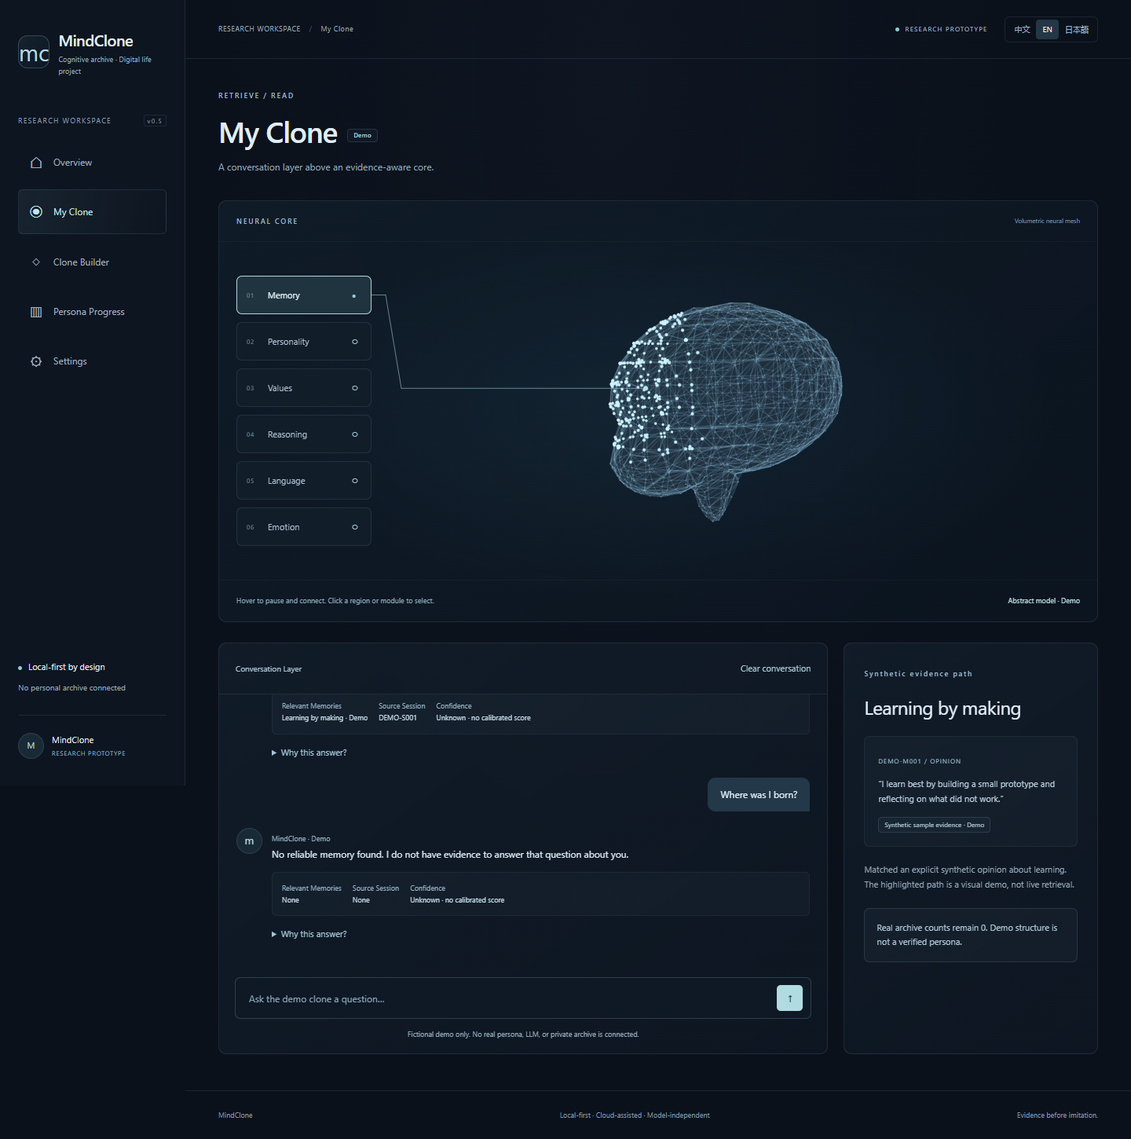
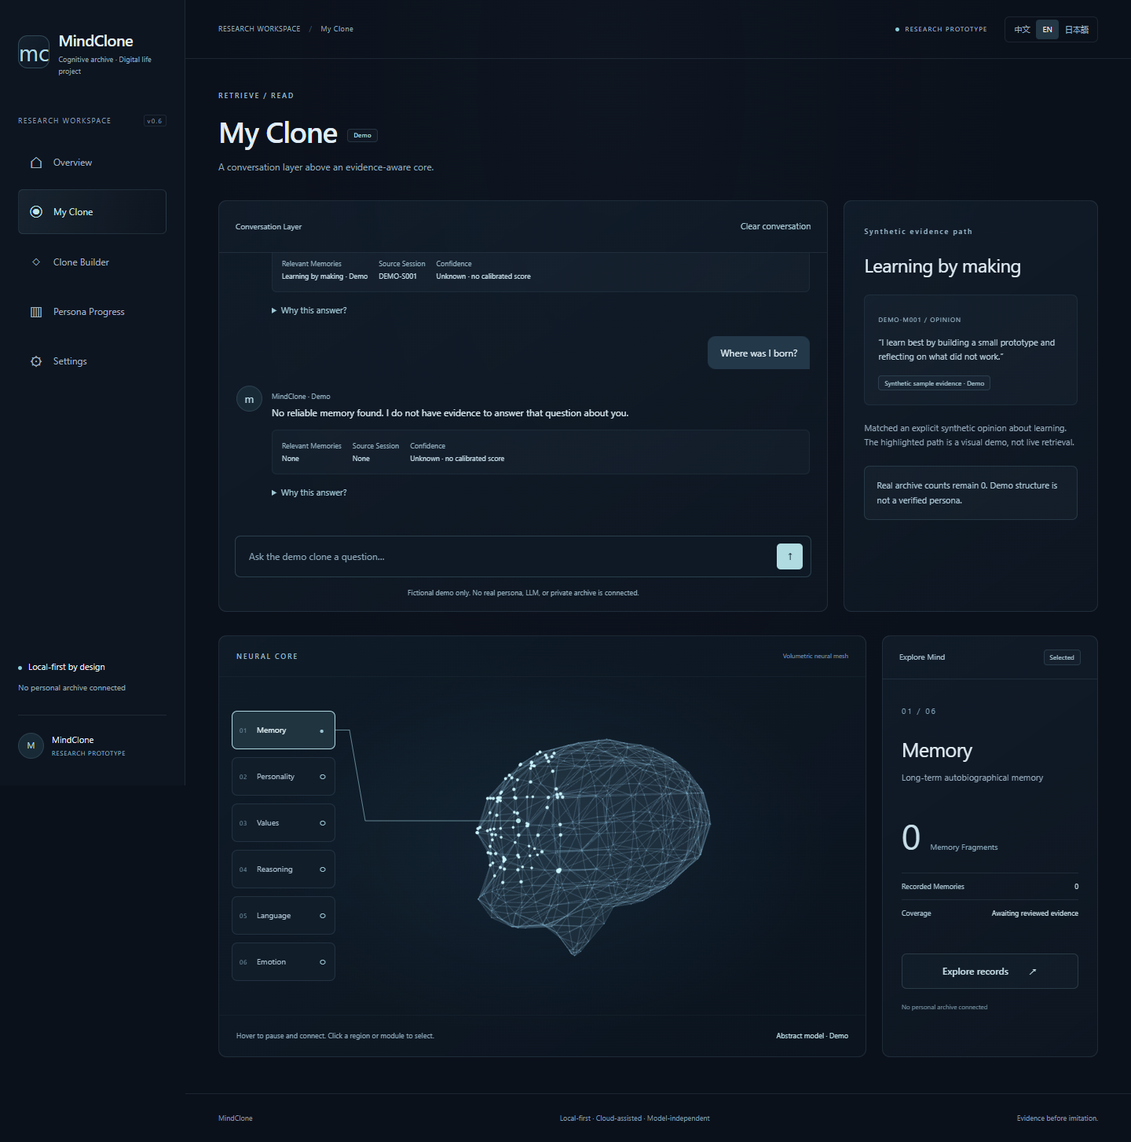
Restore mind exploration panel and prioritize chat capture; simplify brain mesh

diff --git a/src/app.js b/src/app.js
@@ -38,7 +38,7 @@ function shell() {
   document.title = `MindClone · ${text('nav.'+route())}`;
   document.querySelector('#sidebar').innerHTML = `
     <a class="brand" href="#home"><span class="logo">m<span>c</span></span><strong>MindClone<small>${t('brand.subtitle')}</small></strong></a>
-    <div class="workspace-label">${t('shell.workspace')}<span>v0.5</span></div>
+    <div class="workspace-label">${t('shell.workspace')}<span>v0.6</span></div>
     <nav aria-label="${t('shell.workspace')}">${['home','clone','builder','dashboard','settings'].map((page,i)=>`<a href="#${page}" data-page="${page}" class="${route()===page?'active':''}" ${route()===page?'aria-current="page"':''}><span class="nav-symbol" aria-hidden="true">${['⌂','◉','◇','▥','⚙'][i]}</span><span>${t('nav.'+page)}</span></a>`).join('')}</nav>
     <div class="sidebar-bottom"><div class="local-dot">${t('shell.local')}</div><p>${t('shell.disconnected')}</p><div class="profile"><span class="avatar">M</span><div>MindClone<small>${t('shell.private')}</small></div></div></div>`;
   document.querySelector('#header').innerHTML = `<span class="breadcrumb">${t('shell.workspace')} <span>/</span> ${t('nav.'+route())}</span><div class="header-tools"><span class="private-status"><i></i>${t('shell.private')}</span><div class="language-switch" role="group" aria-label="${t('settings.language')}">${Object.entries(languageNames).map(([locale,name])=>`<button type="button" data-language="${locale}" lang="${locale}" aria-pressed="${locale===language}" class="${locale===language?'active':''}">${name}</button>`).join('')}</div></div>`;
@@ -61,14 +61,21 @@ function saveDrafts() {
 function pageTitle(page, eyebrow, description) {
   return `<section class="page-title"><span class="eyebrow">${t(eyebrow)}</span><h1>${t('nav.'+page)}<span class="pill">${t('shell.demo')}</span></h1><p>${t(description)}</p></section>`;
 }
+function exploreContent() {
+  const current = region || 'memory';
+  return `<div class="panel-top"><span>${t('brain.explore')}</span><span class="pill">${t(region?'brain.selected':'brain.preview')}</span></div><div class="region-body"><span class="region-number">0${regions.indexOf(current)+1} / 06</span><h2>${t('region.'+current)}</h2><p>${t('region.'+current+'Note')}</p><div class="region-total"><strong>0</strong><span>${t('metrics.fragments')}</span></div><dl><div><dt>${t('metrics.memories')}</dt><dd>0</dd></div><div><dt>${t('metrics.coverage')}</dt><dd>${t('brain.coverage')}</dd></div></dl><button type="button" class="button secondary" id="explore-records" aria-expanded="false" aria-controls="domain-records">${t('brain.inspect')} <span aria-hidden="true">↗</span></button><div class="empty-records" id="domain-records" hidden><h3>${t('brain.empty')}</h3><p>${t('brain.emptyNote')}</p></div><small>${t('shell.disconnected')}</small></div>`;
+}
+function mindObservatory(options={}) {
+  return `<div class="mind-observatory">${brainMarkup(t,{selected:region,...options})}<aside class="panel explore-panel" aria-label="${t('brain.explore')}">${exploreContent()}</aside></div>`;
+}
 function home() {
-  return `<section class="hero"><div class="eyebrow"><i></i>${t('home.eyebrow')}</div><h1>MindClone</h1><h2>${t('home.headline')}</h2><p class="hero-copy">${t('home.description')}</p><div class="home-observatory">${brainMarkup(t,{selected:region})}</div><div class="hero-actions">${link('home.talk','clone')}${link('home.build','builder',true)}</div><p class="fine centered">${t('brain.instructions')}</p></section>
+  return `<section class="hero"><div class="eyebrow"><i></i>${t('home.eyebrow')}</div><h1>MindClone</h1><h2>${t('home.headline')}</h2><p class="hero-copy">${t('home.description')}</p><div class="home-observatory">${mindObservatory()}</div><div class="hero-actions">${link('home.talk','clone')}${link('home.build','builder',true)}</div><p class="fine centered">${t('brain.instructions')}</p></section>
     <section class="workflow"><span class="eyebrow">${t('home.process')}</span><h2>${t('home.workflowTitle')}</h2><div class="steps">${['talk','capture','structure','remember','clone'].map((s,i)=>`<div><small>0${i+1}</small><h3>${t('workflow.'+s)}</h3><p>${t('workflow.'+s+'Note')}</p></div>`).join('')}</div></section>
-    <section class="feature-grid"><a class="feature" href="#clone"><span class="tile-icon">◉</span><span class="eyebrow">01 / ${t('nav.clone')}</span><h2>${t('home.cloneTitle')}</h2><p>${t('home.cloneNote')}</p><span class="text-link">${t('home.talk')} ↗</span></a><a class="feature" href="#builder"><span class="tile-icon">◇</span><span class="eyebrow">02 / ${t('nav.builder')}</span><h2>${t('home.builderTitle')}</h2><p>${t('home.builderNote')}</p><span class="text-link">${t('home.build')} ↗</span></a><div class="stage panel"><span class="eyebrow">${t('project.stage')}</span><span class="stage-badge">v0.5</span><h2>${t('project.mvp')}</h2><p>${t('privacy.demo')}</p><small>${t('project.next')}</small></div></section>`;
+    <section class="feature-grid"><a class="feature" href="#clone"><span class="tile-icon">◉</span><span class="eyebrow">01 / ${t('nav.clone')}</span><h2>${t('home.cloneTitle')}</h2><p>${t('home.cloneNote')}</p><span class="text-link">${t('home.talk')} ↗</span></a><a class="feature" href="#builder"><span class="tile-icon">◇</span><span class="eyebrow">02 / ${t('nav.builder')}</span><h2>${t('home.builderTitle')}</h2><p>${t('home.builderNote')}</p><span class="text-link">${t('home.build')} ↗</span></a><div class="stage panel"><span class="eyebrow">${t('project.stage')}</span><span class="stage-badge">v0.6</span><h2>${t('project.mvp')}</h2><p>${t('privacy.demo')}</p><small>${t('project.next')}</small></div></section>`;
 }
 function conversation() {
   const log = messages.length ? messages.map(m=>m.role==='user'?`<div class="user-message">${escape(m.text)}</div>`:`<article class="clone-message"><span class="avatar">m</span><div><small>MindClone · ${t('shell.demo')}</small><p>${t(m.reply.answer_key)}</p><div class="evidence"><div><small>${t('clone.memories')}</small><span>${m.reply.memories.length?t('clone.memoryTitle')+' · '+t('shell.demo'):t('clone.none')}</span></div><div><small>${t('clone.source')}</small><span>${m.reply.source||t('clone.none')}</span></div><div><small>${t('clone.confidence')}</small><span>${t('clone.unknown')}</span></div></div><details><summary>${t('clone.why')}</summary><p>${t(m.reply.why_key)}</p></details></div></article>`).join('') : `<div class="chat-empty"><span class="chat-core" aria-hidden="true">◉</span><h2>${t('clone.emptyTitle')}</h2><p>${t('clone.emptyNote')}</p><button class="suggestion" id="sample-chat">${t('clone.sample')} ↗</button></div>`;
-  return `${pageTitle('clone','clone.eyebrow','clone.description')}<div class="clone-observatory">${brainMarkup(t,{selected:region,pulse})}</div><div class="conversation-layer"><section class="panel chat"><div class="panel-top"><span>${t('clone.conversation')}</span><button class="quiet" id="clear-chat">${t('clone.clear')}</button></div><div class="chat-log" aria-live="polite">${log}</div><form id="chat-form"><label class="sr-only" for="query">${t('clone.messageLabel')}</label><input id="query" maxlength="2000" required placeholder="${t('clone.placeholder')}" value="${escape(draftQuery)}" autocomplete="off"><button class="send" aria-label="${t('clone.send')}" ${busy?'disabled':''}>↑</button></form><p class="fine chat-note">${t('privacy.demo')}</p></section><aside class="panel context"><span class="eyebrow">${t('brain.feedback')}</span><h2>${t('clone.memoryTitle')}</h2><div class="memory-card"><small>DEMO-M001 / OPINION</small><p>“${t('clone.memoryQuote')}”</p><span class="pill">${t('fragment.synthetic')}</span></div><p>${t('clone.whyKnown')}</p><div class="notice">${t('privacy.counts')}</div></aside></div>`;
+  return `${pageTitle('clone','clone.eyebrow','clone.description')}<div class="conversation-layer"><section class="panel chat"><div class="panel-top"><span>${t('clone.conversation')}</span><button class="quiet" id="clear-chat">${t('clone.clear')}</button></div><div class="chat-log" aria-live="polite">${log}</div><form id="chat-form"><label class="sr-only" for="query">${t('clone.messageLabel')}</label><input id="query" maxlength="2000" required placeholder="${t('clone.placeholder')}" value="${escape(draftQuery)}" autocomplete="off"><button class="send" aria-label="${t('clone.send')}" ${busy?'disabled':''}>↑</button></form><p class="fine chat-note">${t('privacy.demo')}</p></section><aside class="panel context"><span class="eyebrow">${t('brain.feedback')}</span><h2>${t('clone.memoryTitle')}</h2><div class="memory-card"><small>DEMO-M001 / OPINION</small><p>“${t('clone.memoryQuote')}”</p><span class="pill">${t('fragment.synthetic')}</span></div><p>${t('clone.whyKnown')}</p><div class="notice">${t('privacy.counts')}</div></aside></div><div class="clone-observatory">${mindObservatory()}</div>`;
 }
 function fragmentCard() {
   if (!fragment) return '';
@@ -81,7 +88,7 @@ function builder() {
   const count = counts(fragment);
   const summary = [['builder.answered',answers.length],['builder.memories',count.memory],['builder.values',count.values],['builder.reasoning',count.reasoning],['builder.personality',count.personality]];
   const body = closed ? `<span class="tile-icon">✓</span><h2>${t('builder.summaryTitle')}</h2><p>${t('builder.summaryNote')}</p><div class="summary-grid">${summary.map(([key,n])=>`<div><strong>${n}</strong><span>${t(key)}</span></div>`).join('')}</div>${fragment?'':`<button class="button" id="generate">${t('builder.generate')} ↗</button>`}${fragmentCard()}<button class="quiet reset" id="reset">${t('builder.reset')}</button>` : active ? `<span class="eyebrow">${t('builder.question')} ${String(answers.length+1).padStart(2,'0')} · ${t('builder.scripted')}</span><h2>${question||t('builder.completeTitle')}</h2>${question?`<form id="answer-form"><label for="answer">${t('builder.answer')}</label><textarea id="answer" maxlength="6000" rows="5" required placeholder="${t('builder.placeholder')}">${escape(draftAnswer)}</textarea><div class="actions"><button class="button">${t('builder.continue')} →</button><button class="quiet" type="button" id="sample-answer">${t('builder.sample')}</button></div></form>`:`<p>${t('builder.closeNote')}</p>`}<button class="quiet reset" id="end" ${answers.length?'':'disabled'}>${t('builder.end')}</button>` : `<span class="tile-icon">◇</span><h2>${t('builder.startTitle')}</h2><p>${t('builder.startNote')}</p><div class="notice">${t('privacy.input')}</div><button class="button" id="start">${t('builder.start')} ↗</button>`;
-  return `${pageTitle('builder','builder.eyebrow','builder.description')}${uploadArea()}<div class="builder-layout"><div class="builder-main">${brainMarkup(t,{selected:region,captures:answers.length})}<div class="capture-totals"><span>${t('builder.answered')} <strong>${answers.length}</strong></span><span>${t('metrics.sessions')} <strong>${workspaceSummary.sessions}</strong></span><span>${t('metrics.fragments')} <strong>${workspaceSummary.fragments}</strong></span></div>${preview.synthetic?`<div class="capture-evidence"><span>${t('fragment.synthetic')}</span>${Object.entries(preview.counts).map(([r,n])=>`<span>${t('region.'+r)} <b>+${n}</b></span>`).join('')}</div>`:''}<section class="panel interview"><div class="panel-top"><span>${t(closed?'builder.closed':active?'builder.active':'builder.ready')}</span><span>${t('builder.answered')} ${answers.length}</span></div><div class="interview-body">${body}</div></section></div><aside class="panel context"><span class="eyebrow">${t('builder.map')}</span><h2>${t('builder.mapTitle')}</h2><ol class="session-map">${['builder.start','builder.scripted','builder.answer','builder.continue','builder.end','builder.generate'].map(key=>`<li>${t(key)}</li>`).join('')}</ol><div class="notice">${t('privacy.counts')}</div><p class="fine">${t('builder.progressNote')}</p>${answers.length?`<details><summary>${t('builder.review')} (${answers.length})</summary>${answers.map(a=>`<h4>${escape(a.question)}</h4><p>${escape(a.answer)}</p>`).join('')}</details>`:''}</aside></div>`;
+  return `${pageTitle('builder','builder.eyebrow','builder.description')}<div class="builder-layout"><div class="builder-main"><section class="panel interview"><div class="panel-top"><span>${t(closed?'builder.closed':active?'builder.active':'builder.ready')}</span><span>${t('builder.answered')} ${answers.length}</span></div><div class="interview-body">${body}</div></section></div><aside class="panel context"><span class="eyebrow">${t('builder.map')}</span><h2>${t('builder.mapTitle')}</h2><ol class="session-map">${['builder.start','builder.scripted','builder.answer','builder.continue','builder.end','builder.generate'].map(key=>`<li>${t(key)}</li>`).join('')}</ol><div class="notice">${t('privacy.counts')}</div><p class="fine">${t('builder.progressNote')}</p>${answers.length?`<details><summary>${t('builder.review')} (${answers.length})</summary>${answers.map(a=>`<h4>${escape(a.question)}</h4><p>${escape(a.answer)}</p>`).join('')}</details>`:''}</aside></div><div class="capture-totals"><span>${t('builder.answered')} <strong>${answers.length}</strong></span><span>${t('metrics.sessions')} <strong>${workspaceSummary.sessions}</strong></span><span>${t('metrics.fragments')} <strong>${workspaceSummary.fragments}</strong></span></div>${preview.synthetic?`<div class="capture-evidence"><span>${t('fragment.synthetic')}</span>${Object.entries(preview.counts).map(([r,n])=>`<span>${t('region.'+r)} <b>+${n}</b></span>`).join('')}</div>`:''}${uploadArea()}<div class="builder-observatory">${mindObservatory({captures:answers.length})}</div>`;
 }
 function fragmentList() {
   return `<section class="panel fragment-list"><div class="panel-top"><span>${t('upload.list')}</span><span>${fragmentEntries.length}</span></div>${fragmentEntries.length?`<ul>${fragmentEntries.map(entry=>`<li><div><strong>${escape(entry.name)}</strong><small>${entry.source_id?escape(entry.source_id)+' · ':''}${new Intl.DateTimeFormat(language==='zh'?'zh-CN':language,{dateStyle:'medium',timeStyle:'short'}).format(new Date(entry.imported_at))}${entry.size?' · '+Math.ceil(entry.size/1024)+' KB':''}</small></div><span class="pill">${t(entry.kind==='imported'?'upload.imported':'upload.generated')} · ${t('upload.pending')}</span></li>`).join('')}</ul>`:`<p class="list-empty">${t('upload.listEmpty')}</p>`}</section>`;
@@ -96,9 +103,20 @@ function dashboard() {
 function settings() {
   return `${pageTitle('settings','shell.private','settings.description')}<section class="panel settings-panel"><div><h2>${t('settings.language')}</h2><p>${t('settings.description')}</p><div class="language-settings">${Object.entries(languageNames).map(([locale,name])=>`<button class="button ${locale===language?'':'secondary'}" data-settings-language="${locale}" aria-pressed="${locale===language}" lang="${locale}">${name}</button>`).join('')}</div></div><div><label class="motion-toggle"><input id="motion-toggle" type="checkbox" ${reduceMotion?'checked':''}><span>${t('settings.motion')}</span></label><p>${t('settings.motionNote')}</p></div><div><h2>${t('settings.auth')}</h2><p>${t('settings.authNote')}</p><div class="notice">${t('privacy.input')}</div></div></section>`;
 }
-function chooseRegion(next) { region = next; }
+function chooseRegion(next) { region = next; updateExplore(); }
+function updateExplore() {
+  const panel = app.querySelector('.explore-panel');
+  if (!panel) return;
+  panel.innerHTML = exploreContent();
+  panel.querySelector('#explore-records').onclick = event => {
+    const records = panel.querySelector('#domain-records');
+    records.hidden = !records.hidden;
+    event.currentTarget.setAttribute('aria-expanded', String(!records.hidden));
+  };
+}
 function bind() {
   disposeBrain = connectBrain(app,chooseRegion,reduceMotion);
+  updateExplore();
   app.querySelector('#fragment-files')?.addEventListener('change', async event => {
     if (importing) return;
     const files = [...event.target.files]; if (!files.length) return;

diff --git a/styles.css b/styles.css
@@ -305,3 +305,43 @@ body { font-family: var(--font-sans); }
 }
 
 .brain-module.hovered:not(.selected){border-color:#7195a5;background:#14202b}.brain-module.selected{border-color:#afd6e0;background:#203440}.brain-connector{transition:opacity .12s ease;pointer-events:none}
+
+/* v0.6: main tasks first; shared brain and exploration below. */
+.mind-observatory { display:grid; grid-template-columns:minmax(0,3fr) minmax(235px,1fr); gap:20px; align-items:stretch; }
+.mind-observatory>*, .builder-main { min-width:0; }
+.mind-observatory .brain-workspace { grid-template-columns:132px minmax(0,1fr); padding:20px 16px; gap:8px; }
+.mind-observatory .brain-module { font-size:10px; padding:13px 9px; grid-template-columns:17px minmax(0,1fr) 10px; gap:5px; }
+.explore-panel { text-align:left; }
+.explore-panel .region-body { padding:27px 24px; display:block; }
+.explore-panel .region-number { font-size:10px; letter-spacing:2px; color:#7f9fb3; }
+.explore-panel h2 { font-size:25px; margin:20px 0 9px; }
+.explore-panel .region-body>p { min-height:36px; font-size:11px; }
+.explore-panel .region-total { margin:24px 0; }
+.explore-panel .region-total strong { font-size:45px; }
+.explore-panel .region-body .button { margin-top:15px; justify-content:center; }
+.explore-panel .empty-records[hidden] { display:none; }
+.explore-panel .empty-records p { min-height:0; }
+.clone-observatory, .builder-observatory { margin-top:30px; }
+.conversation-layer { margin-top:0; }
+.builder-layout { margin-bottom:0; }
+@media(max-width:1180px) {
+ .mind-observatory { grid-template-columns:minmax(0,1fr); }
+ .explore-panel .region-body { display:grid; grid-template-columns:minmax(0,1fr) minmax(0,1fr); gap:10px 24px; }
+ .explore-panel .region-number { grid-column:1/-1; }
+ .explore-panel h2 { grid-column:1; margin:0; }
+ .explore-panel .region-body>p { grid-column:1; grid-row:3; margin:0; }
+ .explore-panel .region-total { grid-column:2; grid-row:2; margin:0; justify-content:flex-end; }
+ .explore-panel dl { grid-column:2; grid-row:3; margin:0; }
+ .explore-panel .region-body .button { grid-column:1; margin-top:5px; }
+ .explore-panel .empty-records { grid-column:1/-1; }
+}
+@media(max-width:700px) {
+ .mind-observatory { gap:14px; }
+ .mind-observatory .brain-workspace { grid-template-columns:104px minmax(0,1fr); padding:12px 10px; gap:2px; }
+ .mind-observatory .brain-module { grid-template-columns:minmax(0,1fr) 10px; padding:11px 8px; font-size:9px; gap:3px; }
+ .explore-panel .region-body { padding:20px 18px; gap:10px 14px; }
+ .explore-panel h2 { font-size:22px; }
+ .explore-panel .region-total strong { font-size:34px; }
+ .clone-observatory, .builder-observatory { margin-top:24px; }
+ .conversation-layer { margin-top:0; }
+}

diff --git a/src/brain-geometry.js b/src/brain-geometry.js
@@ -17,7 +17,7 @@ function field(x,y,z) {
   return union(union(cerebral,ell(-66,-39,0,48,35,49)),ell(-19,-67,0,18,44,20));
 }
 export function createMesh(coarse=false) {
-  const step=coarse?22:18,points=[],faces=[],edges=[],weld=new Map();
+  const step=coarse?36:30,points=[],faces=[],edges=[],weld=new Map();
   const vertex=p=>{const key=p.map(v=>v.toFixed(5)).join(',');if(weld.has(key))return weld.get(key);const i=points.length;points.push({x:p[0],y:p[1],z:p[2],region:domainFor(...p)});weld.set(key,i);return i;};
   const corners=[[0,0,0],[1,0,0],[1,1,0],[0,1,0],[0,0,1],[1,0,1],[1,1,1],[0,1,1]];
   const tetra=[[0,5,1,6],[0,1,2,6],[0,2,3,6],[0,3,7,6],[0,7,4,6],[0,4,5,6]];

diff --git a/README.md b/README.md
@@ -9,7 +9,7 @@
 
 **Local-first · Cloud-assisted · Model-independent**
 
-> Research Prototype · v0.5 · Public static demo
+> Research Prototype · v0.6 · Public static demo
 
 ![Digital Brain overview](screenshots/overview-desktop.png)
 
@@ -39,7 +39,7 @@ Start Interview → scripted AI question → original answer → follow-up → E
 Captured answers, generated sessions and fragments accumulate as counts. There is no percentage, completion bar or lifetime target. Exact fictional samples still provide illustrative source-based counts; arbitrary answers remain raw and unconfirmed. Verified archive counts remain zero.
 
 ## Digital Brain UI
-All three pages share a genuine closed 3D brain mesh generated from an original implicit volume with marching tetrahedra. Cerebrum, cerebellum and brainstem form one connected surface, with a dorsal fissure and subtle cortical deformation. Three.js 0.180.0 (MIT, vendored locally and loaded on demand) renders translucent triangular faces, thin unique edges and vertex points. Desktop: 1,462 vertices / 2,920 faces; mobile: 968 vertices / 1,932 faces. No traced silhouette, extrusion or paired planar sheets are used.
+All three pages share a genuine closed 3D brain mesh generated from an original implicit volume with marching tetrahedra. Cerebrum, cerebellum and brainstem form one connected surface, with a dorsal fissure and subtle cortical deformation. Three.js 0.180.0 (MIT, vendored locally and loaded on demand) renders translucent triangular faces, thin unique edges and vertex points. Desktop: 506 vertices / 1,008 faces; mobile: 338 vertices / 672 faces. No traced silhouette, extrusion or paired planar sheets are used.
 
 Hover and selection are separate states: hoveredDomain controls one temporary module highlight and connection; selectedDomain alone controls persistent node glow. Hover takes precedence for the single connection; leaving restores the selected connection. SVG endpoints use Vector3.project(camera) from the domain centroid in world space. Memory, Personality, Values, Reasoning, Language and Emotion are a single vertical column on the left. Click either a module or the brain surface to select; no region detail, record page or navigation is created. Keyboard buttons and the focused canvas arrow keys provide selection.
 
@@ -158,3 +158,6 @@ Overview → select a brain region without navigation → switch language → My
 
 
 Four-angle mesh proofs: [side](screenshots/brain-side.png), [front](screenshots/brain-front.png), [rear](screenshots/brain-rear.png), [opposite](screenshots/brain-opposite.png). These use the same volumetric geometry as the app.
+
+### v0.6 layout update
+Overview retains the central brain with a right-side Explore Mind / Explore records panel. My Clone places conversation first, followed by the shared brain and exploration panel. Clone Builder orders interview → tab-local fragment upload/list → brain and exploration. The panel follows click selection and shows zero verified records; its records action opens an inline empty state without a new route. Smaller screens stack the exploration panel below the brain. Further coarsening exposes the triangular facets while retaining the closed volumetric mesh and all interactions.

diff --git a/docs/ARCHITECTURE.md b/docs/ARCHITECTURE.md
@@ -1,4 +1,4 @@
-# Architecture & integration boundaries — v0.5
+# Architecture & integration boundaries — v0.6
 
 The existing Web module is iterated in place; the Master Archive is unchanged. No database migration, root mapping, indexing or real-data import is performed.
 
@@ -43,5 +43,5 @@ DemoCore importFragment accepts filename and original text in page memory only. 
 getWorkspaceSummary distinguishes locally generated sessions/fragments/imports and fictional Demo candidate counts from getProgress's zero verified archive metrics. Language changes and hash routes preserve session state; refresh clears it. No upload POST endpoint exists. FragmentIngestPort reserves staging, review and authenticated persistence; it is not implemented. No archive/database/root mapping or other project is changed.
 
 
-## Volumetric brain — v0.5
-Original implicit volume → marching tetrahedra → welded closed indexed mesh → Three.js Mesh / LineSegments / Points. Desktop 1462 vertices / 2920 faces; mobile 968 / 1932. Lazy runtime import, DPR clamp and reduced-motion/offscreen cleanup. hoveredDomain and selectedDomain remain separate; only selection changes point shader attributes. Raycasting picks actual mesh faces, while a projected domain centroid controls the single SVG connector.
+## Volumetric brain — v0.6
+Original implicit volume → marching tetrahedra → welded closed indexed mesh → Three.js Mesh / LineSegments / Points. Desktop 506 vertices / 1008 faces; mobile 338 / 672. Lazy runtime import, DPR clamp and reduced-motion/offscreen cleanup. hoveredDomain and selectedDomain remain separate; only selection changes point shader attributes. Raycasting picks actual mesh faces, while a projected domain centroid controls the single SVG connector.

diff --git a/docs/VALIDATION.md b/docs/VALIDATION.md
@@ -1,4 +1,4 @@
-# Validation — v0.5
+# Validation — v0.6
 
 13 Node tests cover evidence provenance, locale keys, safe tab-local fragment import and genuine closed mesh topology. Both resolutions have positive enclosed volume, every edge belongs to two faces, Euler characteristic 2 and all three dimensions exceed 130 model units.
 
@@ -7,3 +7,5 @@ Browser regression covers automatic rotation, hover pause/resume, six module hov
 Source and all Git history paths reviewed; recognizable GitHub/OpenAI credential signatures found no matches. No archive, DB, env, Vault or actual interview files are tracked. Screenshots show only fictional specimens.
 
 Live acceptance: https://a29k055-arch.github.io/MindClone/ returns HTTP 200. The full browser regression above also passed against the deployed site in a fresh anonymous browser context. Repository API confirmed private=false; Pages source gh-pages:/, public=true and HTTPS enforced. Main implementation commit a6e5645; deployment commit 8a304c5.
+
+v0.6 adds checks for the restored right-side exploration panel, selected-domain description, inline empty record action, and DOM order: chat before brain; interview before upload before brain. The 13 unit tests and full three-language/five-width browser matrix passed locally. Prior live acceptance above refers to v0.5; v0.6 deployment is verified separately after publication.
